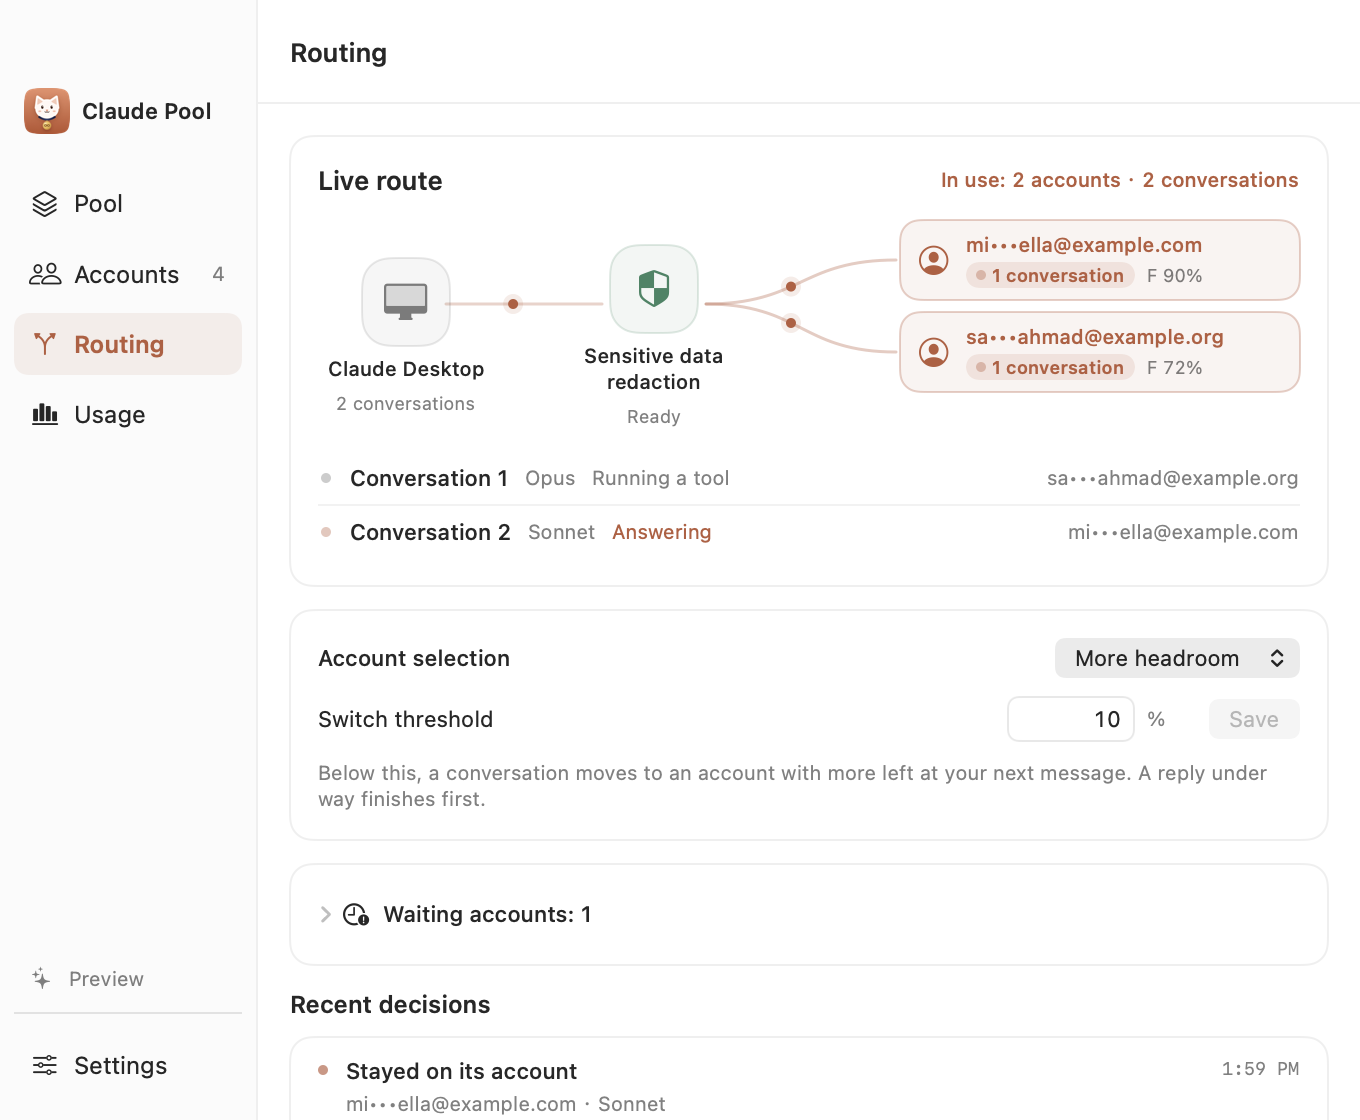
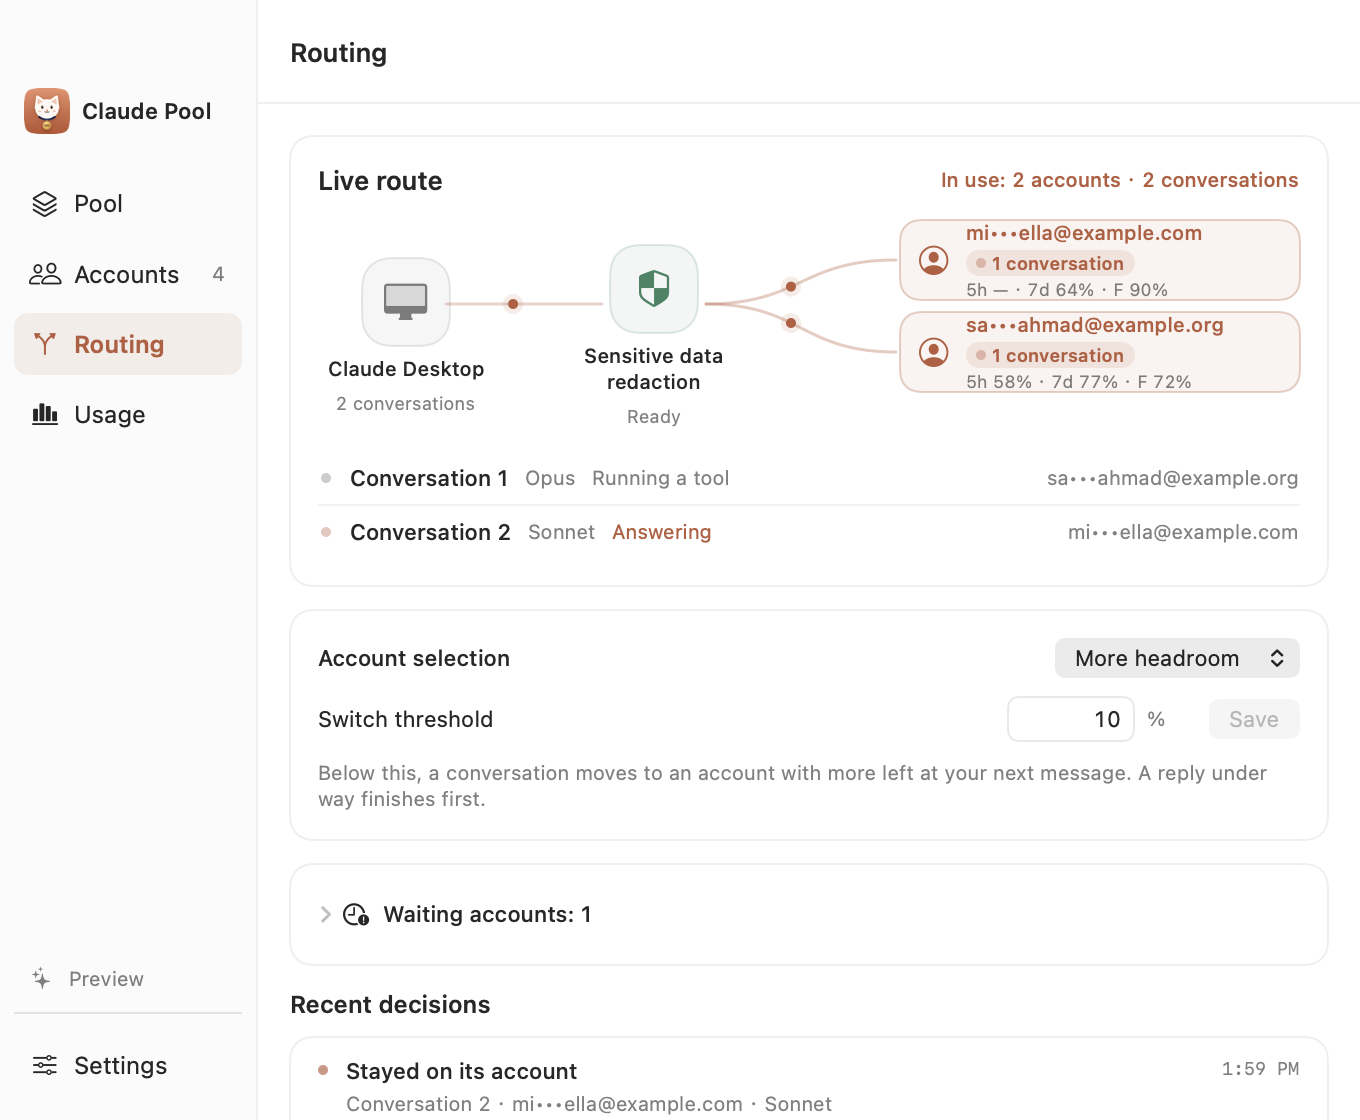
feat(routing): show every account a conversation runs on, and why it went there
A conversation running on several accounts is counted on each, and its row
names them all. The routing view shows each account's 5-hour, weekly and model
limits together. Each recent decision names its conversation, and a task
placed beside its conversation's busy one says it was placed as parallel work.

Changed region(s): [[0.7103, 0.1875, 0.8956, 0.3438], [0.2471, 0.9688, 0.6176, 1.0]]

diff --git a/Sources/ClaudePool/PoolAppModel.swift b/Sources/ClaudePool/PoolAppModel.swift
@@ -182,6 +182,8 @@ struct PoolConversation: Identifiable, Equatable {
     var state: SessionState
     var startedAt: Date
     var sessionIDs: [UUID]
+    /// Every account the conversation has a run on: its sub-agents may be on several.
+    var accountIDs: [UUID] = []
     var isWorking: Bool { ![.idle, .ended].contains(state) }
 }
 struct AccountUse: Equatable {
@@ -399,25 +401,30 @@ final class PoolAppModel {
                 ?? runs.filter { $0.state == .attention }.max { $0.startedAt < $1.startedAt }
             return PoolConversation(id: latest.conversation ?? latest.id.uuidString, number: 0, accountID: (working ?? latest).accountID,
                                     model: (working ?? latest).model, state: working?.state ?? latest.state,
-                                    startedAt: runs.map(\.startedAt).min()!, sessionIDs: runs.map(\.id))
+                                    startedAt: runs.map(\.startedAt).min()!, sessionIDs: runs.map(\.id),
+                                    accountIDs: Array(Set(runs.map(\.accountID))).sorted { $0.uuidString < $1.uuidString })
         }.sorted { $0.startedAt < $1.startedAt }.enumerated().map { index, conversation in
             var numbered = conversation; numbered.number = index + 1; return numbered
         }
     }
-    /// How many conversations are on each account, and whether one of them is answering.
+    /// How many conversations have a run on each account, and whether one there is answering. A
+    /// conversation whose sub-agents run on several accounts is shown on each of them: no account
+    /// does work the person cannot see.
     var accountUse: [UUID: AccountUse] {
-        var use: [UUID: AccountUse] = [:]
-        for conversation in conversations {
-            use[conversation.accountID, default: .init()].conversations += 1
-            if conversation.isWorking { use[conversation.accountID, default: .init()].working = true }
+        var keys: [UUID: Set<String>] = [:], working: Set<UUID> = []
+        for run in snapshot.sessions where run.state != .ended && !run.isOneOff {
+            keys[run.accountID, default: []].insert(run.conversation ?? run.id.uuidString)
+            if ![.idle, .attention].contains(run.state) { working.insert(run.accountID) }
         }
-        return use
+        return keys.mapValues { _ in AccountUse() }.reduce(into: [:]) { use, item in
+            use[item.key] = AccountUse(conversations: keys[item.key]!.count, working: working.contains(item.key))
+        }
     }
     /// "2 accounts · 3 conversations", or that there are none.
     var useSummaryText: String {
         let conversations = conversations
         guard !conversations.isEmpty else { return t("No conversations") }
-        let accounts = Set(conversations.map(\.accountID)).count
+        let accounts = accountUse.count
         return t("In use: {0} · {1}", accounts == 1 ? t("1 account") : t("{0} accounts", "\(accounts)"), conversationCountText(conversations.count))
     }
     func conversationCountText(_ count: Int) -> String { count == 1 ? t("1 conversation") : t("{0} conversations", "\(count)") }
@@ -759,9 +766,16 @@ final class PoolAppModel {
         return back.map { t("{0} used up · back {1}", name, clockTime($0)) } ?? t("{0} used up", name)
     }
     /// "F 72%": the account's tightest model limit, for lists of accounts.
+    /// "5h 40% · 7d 61% · F 72%": what is left of the limits every model shares, then of the
+    /// tightest model limit, written the way the rings name them; an unread one as "—", never left out.
     func accountBrief(_ account: PoolAccount) -> String? {
-        guard let tight = tightestModelLimit(account), let left = tight.remaining, let name = tight.window.modelName else { return nil }
-        return "\(name.prefix(1)) \(Int(left.rounded()))%"
+        var parts = ["five_hour", "seven_day"].map { id in
+            limitShortName(id) + " " + (remaining(account, window: id).map { "\(Int($0.rounded()))%" } ?? "—")
+        }
+        if let tight = tightestModelLimit(account), let name = tight.window.modelName {
+            parts.append("\(name.prefix(1)) " + (tight.remaining.map { "\(Int($0.rounded()))%" } ?? "—"))
+        }
+        return parts.joined(separator: " · ")
     }
     /// Spoken and hover text of an account's limits together.
     func accountQuotaSummary(_ account: PoolAccount) -> String {
@@ -811,6 +825,7 @@ final class PoolAppModel {
         case .failover: return t("Backup account selected")
         case .capacityReached: return t("Session capacity reached")
         case .modelUnavailable: return t("Model unavailable for this account")
+        case .parallelWork: return t("Parallel task: placed where there is most room")
         }
     }
     func timeText(_ date: Date) -> String {

diff --git a/Sources/ClaudePool/RoutingFlowView.swift b/Sources/ClaudePool/RoutingFlowView.swift
@@ -19,8 +19,9 @@ struct RoutingFlowView: View {
 
     var body: some View {
         let conversations = model.conversations
-        let lanes = Self.lanes(conversations)
-        let hidden = Set(conversations.map(\.accountID)).count - lanes.filter { $0.conversations > 0 }.count
+        let use = model.accountUse
+        let lanes = Self.lanes(use)
+        let hidden = use.count - lanes.filter { $0.conversations > 0 }.count
         let working = conversations.contains { isAnswering($0) }
         PoolCard {
             VStack(alignment: .leading, spacing: 12) {
@@ -39,10 +40,11 @@ struct RoutingFlowView: View {
         .animation(reduceMotion ? nil : PoolMotion.list, value: conversations)
     }
 
-    /// Accounts with conversations, answering ones first, then by how many.
-    static func lanes(_ conversations: [PoolConversation]) -> [Lane] {
-        let lanes = Dictionary(grouping: conversations, by: \.accountID).map { id, list in
-            Lane(accountID: id, conversations: list.count, working: list.contains(where: \.isWorking))
+    /// Accounts with a conversation's run on them (sub-agents on another account included),
+    /// answering ones first, then by how many.
+    static func lanes(_ use: [UUID: AccountUse]) -> [Lane] {
+        let lanes = use.map { id, use in
+            Lane(accountID: id, conversations: use.conversations, working: use.working)
         }.sorted { a, b in
             if a.working != b.working { return a.working }
             if a.conversations != b.conversations { return a.conversations > b.conversations }
@@ -116,11 +118,10 @@ struct RoutingFlowView: View {
                 Text(lane.map { model.accountName($0.accountID) } ?? model.t("No conversations"))
                     .font(.system(size: 10, weight: .medium)).foregroundStyle(color).fixedSize(horizontal: false, vertical: true)
                 if let lane {
-                    HStack(spacing: 6) {
-                        AccountUseBadges(model: model, use: lane.conversations > 0 ? AccountUse(conversations: lane.conversations, working: lane.working) : nil)
-                        if let account = model.snapshot.accounts.first(where: { $0.id == lane.accountID }), let brief = model.accountBrief(account) {
-                            Text(brief).font(.system(size: 9)).foregroundStyle(.secondary).monospacedDigit().fixedSize()
-                        }
+                    AccountUseBadges(model: model, use: lane.conversations > 0 ? AccountUse(conversations: lane.conversations, working: lane.working) : nil)
+                    if let account = model.snapshot.accounts.first(where: { $0.id == lane.accountID }), let brief = model.accountBrief(account) {
+                        Text(brief).font(.system(size: 9)).foregroundStyle(.secondary).monospacedDigit().lineLimit(1).minimumScaleFactor(0.8)
+                            .help(model.accountQuotaSummary(account))
                     }
                 }
             }
@@ -187,7 +188,9 @@ struct RoutingFlowView: View {
                 Image(systemName: "arrow.triangle.swap").font(.system(size: 9)).foregroundStyle(PoolPalette.amber)
                     .help(model.routeReason(decision.reason))
             }
-            Text(model.accountName(conversation.accountID)).font(.system(size: 10)).foregroundStyle(.secondary)
+            Text(model.accountName(conversation.accountID) + (conversation.accountIDs.count > 1 ? " +\(conversation.accountIDs.count - 1)" : ""))
+                .font(.system(size: 10)).foregroundStyle(.secondary)
+                .help(conversation.accountIDs.map { model.accountName($0) }.joined(separator: ", "))
                 .fixedSize(horizontal: false, vertical: true)
                 .id(conversation.accountID)
                 .transition(.asymmetric(insertion: .move(edge: .trailing).combined(with: .opacity), removal: .opacity))

diff --git a/Tests/ScreenshotTests/PresentationTests.swift b/Tests/ScreenshotTests/PresentationTests.swift
@@ -378,9 +378,30 @@ final class PresentationTests: XCTestCase {
         XCTAssertEqual(model.conversations.count, 1)
         XCTAssertEqual(model.conversations[0].accountID, new)
         XCTAssertEqual(model.conversations[0].state, .running)
+        // its sub-agent still answering on the old account shows there too: nothing runs out of sight
+        XCTAssertEqual(Set(model.conversations[0].accountIDs), [old, new])
+        XCTAssertEqual(model.accountUse[old], AccountUse(conversations: 1, working: true))
+        XCTAssertEqual(model.accountUse[new], AccountUse(conversations: 1, working: true))
+        XCTAssertEqual(Set(RoutingFlowView.lanes(model.accountUse).map(\.accountID)), [old, new])
         // every run refused and none answering yet: the newest refusal says where it stands
         model.snapshot.sessions = [run(old, .attention, 0), run(new, .attention, 2)]
         XCTAssertEqual(model.conversations[0].accountID, new)
+    }
+
+    /// The route view writes an account's limits as everywhere else: the 5-hour and weekly ones,
+    /// then its tightest model limit. It once wrote the model limit alone ("F 72%").
+    func testAccountBriefShowsEveryLimitNotOnlyTheModelOne() {
+        let model = PoolAppModel.demoModel()
+        var account = model.snapshot.accounts[0]
+        let date = model.now
+        account.windows = [.init(id: "five_hour", usedPercent: 60, observedAt: date, resetsAt: date.addingTimeInterval(3600)),
+                           .init(id: "seven_day", usedPercent: 39, observedAt: date, resetsAt: date.addingTimeInterval(86400)),
+                           .init(id: QuotaWindow.overageIncludedID, usedPercent: 28, observedAt: date, resetsAt: date.addingTimeInterval(86400), scope: .models(["fable"]))]
+        XCTAssertEqual(model.accountBrief(account), "5h 40% · 7d 61% · F 72%")
+        account.windows.removeLast()
+        XCTAssertEqual(model.accountBrief(account), "5h 40% · 7d 61%")
+        account.windows.removeFirst()
+        XCTAssertEqual(model.accountBrief(account), "5h — · 7d 61%", "An unread limit is shown as unread, not left out")
     }
 
     func testRouteLanesShowEveryAccountInUse() {
@@ -388,10 +409,10 @@ final class PresentationTests: XCTestCase {
         func conversation(_ n: Int, _ account: UUID, _ state: SessionState) -> PoolConversation {
             .init(id: "c\(n)", number: n, accountID: account, model: "Opus", state: state, startedAt: Date(), sessionIDs: [UUID()])
         }
-        let lanes = RoutingFlowView.lanes([conversation(1, ids[0], .idle), conversation(2, ids[1], .running), conversation(3, ids[0], .idle)])
+        let lanes = RoutingFlowView.lanes([ids[0]: AccountUse(conversations: 2, working: false), ids[1]: AccountUse(conversations: 1, working: true)])
         XCTAssertEqual(lanes.map(\.accountID), [ids[1], ids[0]], "Answering first, then by conversations")
         XCTAssertEqual(lanes.map(\.conversations), [1, 2])
-        let many = (0..<5).map { conversation($0 + 1, ids[$0], .idle) }
+        let many = Dictionary(uniqueKeysWithValues: ids.map { ($0, AccountUse(conversations: 1, working: false)) })
         XCTAssertEqual(RoutingFlowView.lanes(many).count, RoutingFlowView.laneLimit)
     }
 

diff --git a/Tests/PoolEngineTests/CoordinatorHandoffTests.swift b/Tests/PoolEngineTests/CoordinatorHandoffTests.swift
@@ -123,7 +123,9 @@ final class CoordinatorHandoffTests: XCTestCase {
         let task = HandoffWorker(steps: [.reply([.text("Synthetic task done."), .finished(.endTurn)])])
         let title = { HandoffWorker(steps: [.reply([.text("Synthetic title"), .finished(.endTurn)])]) }
         let factory = HandoffFactory(queues: [accounts[0].id: [busy, title()], accounts[1].id: [task, title()]])
-        let coordinator = PoolCoordinator(accounts: accounts, now: { date }, factory: { account, _ in try await factory.make(account.id) })
+        let routes = PlacementLog()
+        let coordinator = PoolCoordinator(accounts: accounts, now: { date }, factory: { account, _ in try await factory.make(account.id) },
+                                          onUpdate: { if case .route(let decision) = $0 { routes.add(decision) } })
         let first = Task { try await self.collect(coordinator, self.request(), id: "desktop-1#agent-a") }
         try await handoffWait { await busy.regularRequests.count == 1 }
         let second = try await collect(coordinator, request(), id: "desktop-1#agent-b")
@@ -133,6 +135,10 @@ final class CoordinatorHandoffTests: XCTestCase {
         let order = await factory.order
         XCTAssertEqual(Array(order.prefix(2)), [accounts[0].id, accounts[1].id], "The second task does not join its busy sibling")
         XCTAssertEqual(order.count, 3, "The title is served on an account the conversation is on")
+        // each placement says why it went where it went: the side-by-side task as parallel work,
+        // the title as staying on the conversation's account
+        let reasons = routes.all.filter { $0.sessionID != nil }.map(\.reason)
+        XCTAssertEqual(Array(reasons.prefix(3)), [.headroom, .parallelWork, .sessionAffinity])
         first.cancel()
         _ = await coordinator.shutdown()
     }
@@ -562,4 +568,11 @@ private final class HandoffUpdates: @unchecked Sendable {
 private func handoffWait(_ condition: @escaping @Sendable () async -> Bool) async throws {
     for _ in 0..<200 { if await condition() { return }; try await Task.sleep(nanoseconds: 10_000_000) }
     XCTFail("Timed out waiting.")
+}
+
+private final class PlacementLog: @unchecked Sendable {
+    private let lock = NSLock()
+    private var decisions: [RouteDecision] = []
+    func add(_ decision: RouteDecision) { lock.lock(); decisions.append(decision); lock.unlock() }
+    var all: [RouteDecision] { lock.lock(); defer { lock.unlock() }; return decisions }
 }

diff --git a/Sources/ClaudePool/RoutingPage.swift b/Sources/ClaudePool/RoutingPage.swift
@@ -104,13 +104,18 @@ struct RoutingPage: View {
         case .unavailable: return model.stateTitle(account.effectiveState(at: model.now))
         }
     }
+    /// The conversation a decision placed, while it is still open.
+    private func conversationName(_ decision: RouteDecision) -> String? {
+        guard let id = decision.sessionID, let conversation = model.conversations.first(where: { $0.sessionIDs.contains(id) }) else { return nil }
+        return model.t("Conversation {0}", "\(conversation.number)")
+    }
     private func decisionRow(_ decision: RouteDecision) -> some View {
         HStack(alignment: .top, spacing: 9) {
             Circle().fill(decision.reason == .failover || decision.reason == .quotaExhausted ? PoolPalette.amber : PoolPalette.accent.opacity(0.65))
                 .frame(width: 5, height: 5).padding(.top, 4).accessibilityHidden(true)
             VStack(alignment: .leading, spacing: 3) {
                 Text(model.routeReason(decision.reason)).font(.system(size: 11, weight: .medium))
-                Text([decision.accountID.map { model.accountName($0) }, decision.model].compactMap { $0 }.joined(separator: " · "))
+                Text([conversationName(decision), decision.accountID.map { model.accountName($0) }, decision.model].compactMap { $0 }.joined(separator: " · "))
                     .font(.system(size: 10)).foregroundStyle(.secondary).fixedSize(horizontal: false, vertical: true)
             }
             Spacer(minLength: 3)

diff --git a/Sources/PoolEngine/PoolCoordinator.swift b/Sources/PoolEngine/PoolCoordinator.swift
@@ -904,7 +904,7 @@ public actor PoolCoordinator: BridgeBackend {
             if Task.isCancelled || cancelledGenerations.contains(generation) { throw BridgeFailure.cancelled }
             throw blocked() ? BridgeFailure.paused : BridgeFailure.unavailable
         }
-        let reason: RoutingReason = reasonOverride ?? (rejectedAccount ? .failover : routingPolicy.strategy == .ordered ? .accountOrder :
+        let reason: RoutingReason = reasonOverride ?? (rejectedAccount ? .failover : parallel ? .parallelWork : lead == account.id ? .sessionAffinity : routingPolicy.strategy == .ordered ? .accountOrder :
             (PoolRouting.assessment(verifiedAccount, model: model.cliAlias).headroom == nil ? .unknownQuota : .headroom))
         route(id: worker.id, model: model.id, reason: reason)
         return worker.id

diff --git a/Sources/PoolCore/Domain.swift b/Sources/PoolCore/Domain.swift
@@ -461,6 +461,8 @@ public enum RoutingReason: String, Codable, Sendable {
     case sessionAffinity, toolContinuation, accountOrder, headroom, unknownQuota
     case accountLimited, accountUnavailable, paused, cancelled, noAvailableAccount, requestRejected
     case lowQuota, quotaExhausted, failover, capacityReached, modelUnavailable
+    /// A task run beside its conversation's busy one, placed where the pool has the most room.
+    case parallelWork
 }
 
 /// Account identity and prompt contents are resolved by the local UI, never written into a route record.
